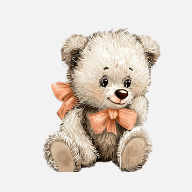
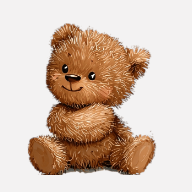
Usa o ursinho marrom no ícone do app
Os quatro ícones do PWA passam a ser gerados a partir do urso-3 do projeto
de design — o mesmo que ilustra a home — no lugar do urso-1. Fundo papel,
como antes; a versão maskable entra menor, dentro da zona segura que o
Android recorta.

A versão do cache sobe para nosso-bebe-v8, senão quem já instalou continua
com o ícone antigo guardado pelo service worker.

Claude-Session: https://claude.ai/code/session_01KT9uwZgUaZvYcm4Gnp6aSK

diff --git a/sw.js b/sw.js
@@ -1,7 +1,7 @@
 /* Service worker do "Nosso bebê".
    IMPORTANTE: ao mudar qualquer arquivo, incremente a versão do cache abaixo. */
 "use strict";
-const CACHE = "nosso-bebe-v7";
+const CACHE = "nosso-bebe-v8";
 const ASSETS = [
   "./",
   "./index.html",

diff --git a/README.md b/README.md
@@ -115,7 +115,7 @@ ARQUITETURA.md          ← o padrão de construção seguido aqui
 ```
 
 > Ao alterar qualquer arquivo, incremente a versão do cache em `sw.js`
-> (`const CACHE = "nosso-bebe-v8"`), senão quem já usa o app fica preso na versão antiga.
+> (`const CACHE = "nosso-bebe-v9"`), senão quem já usa o app fica preso na versão antiga.
 
 ## Nota
 
